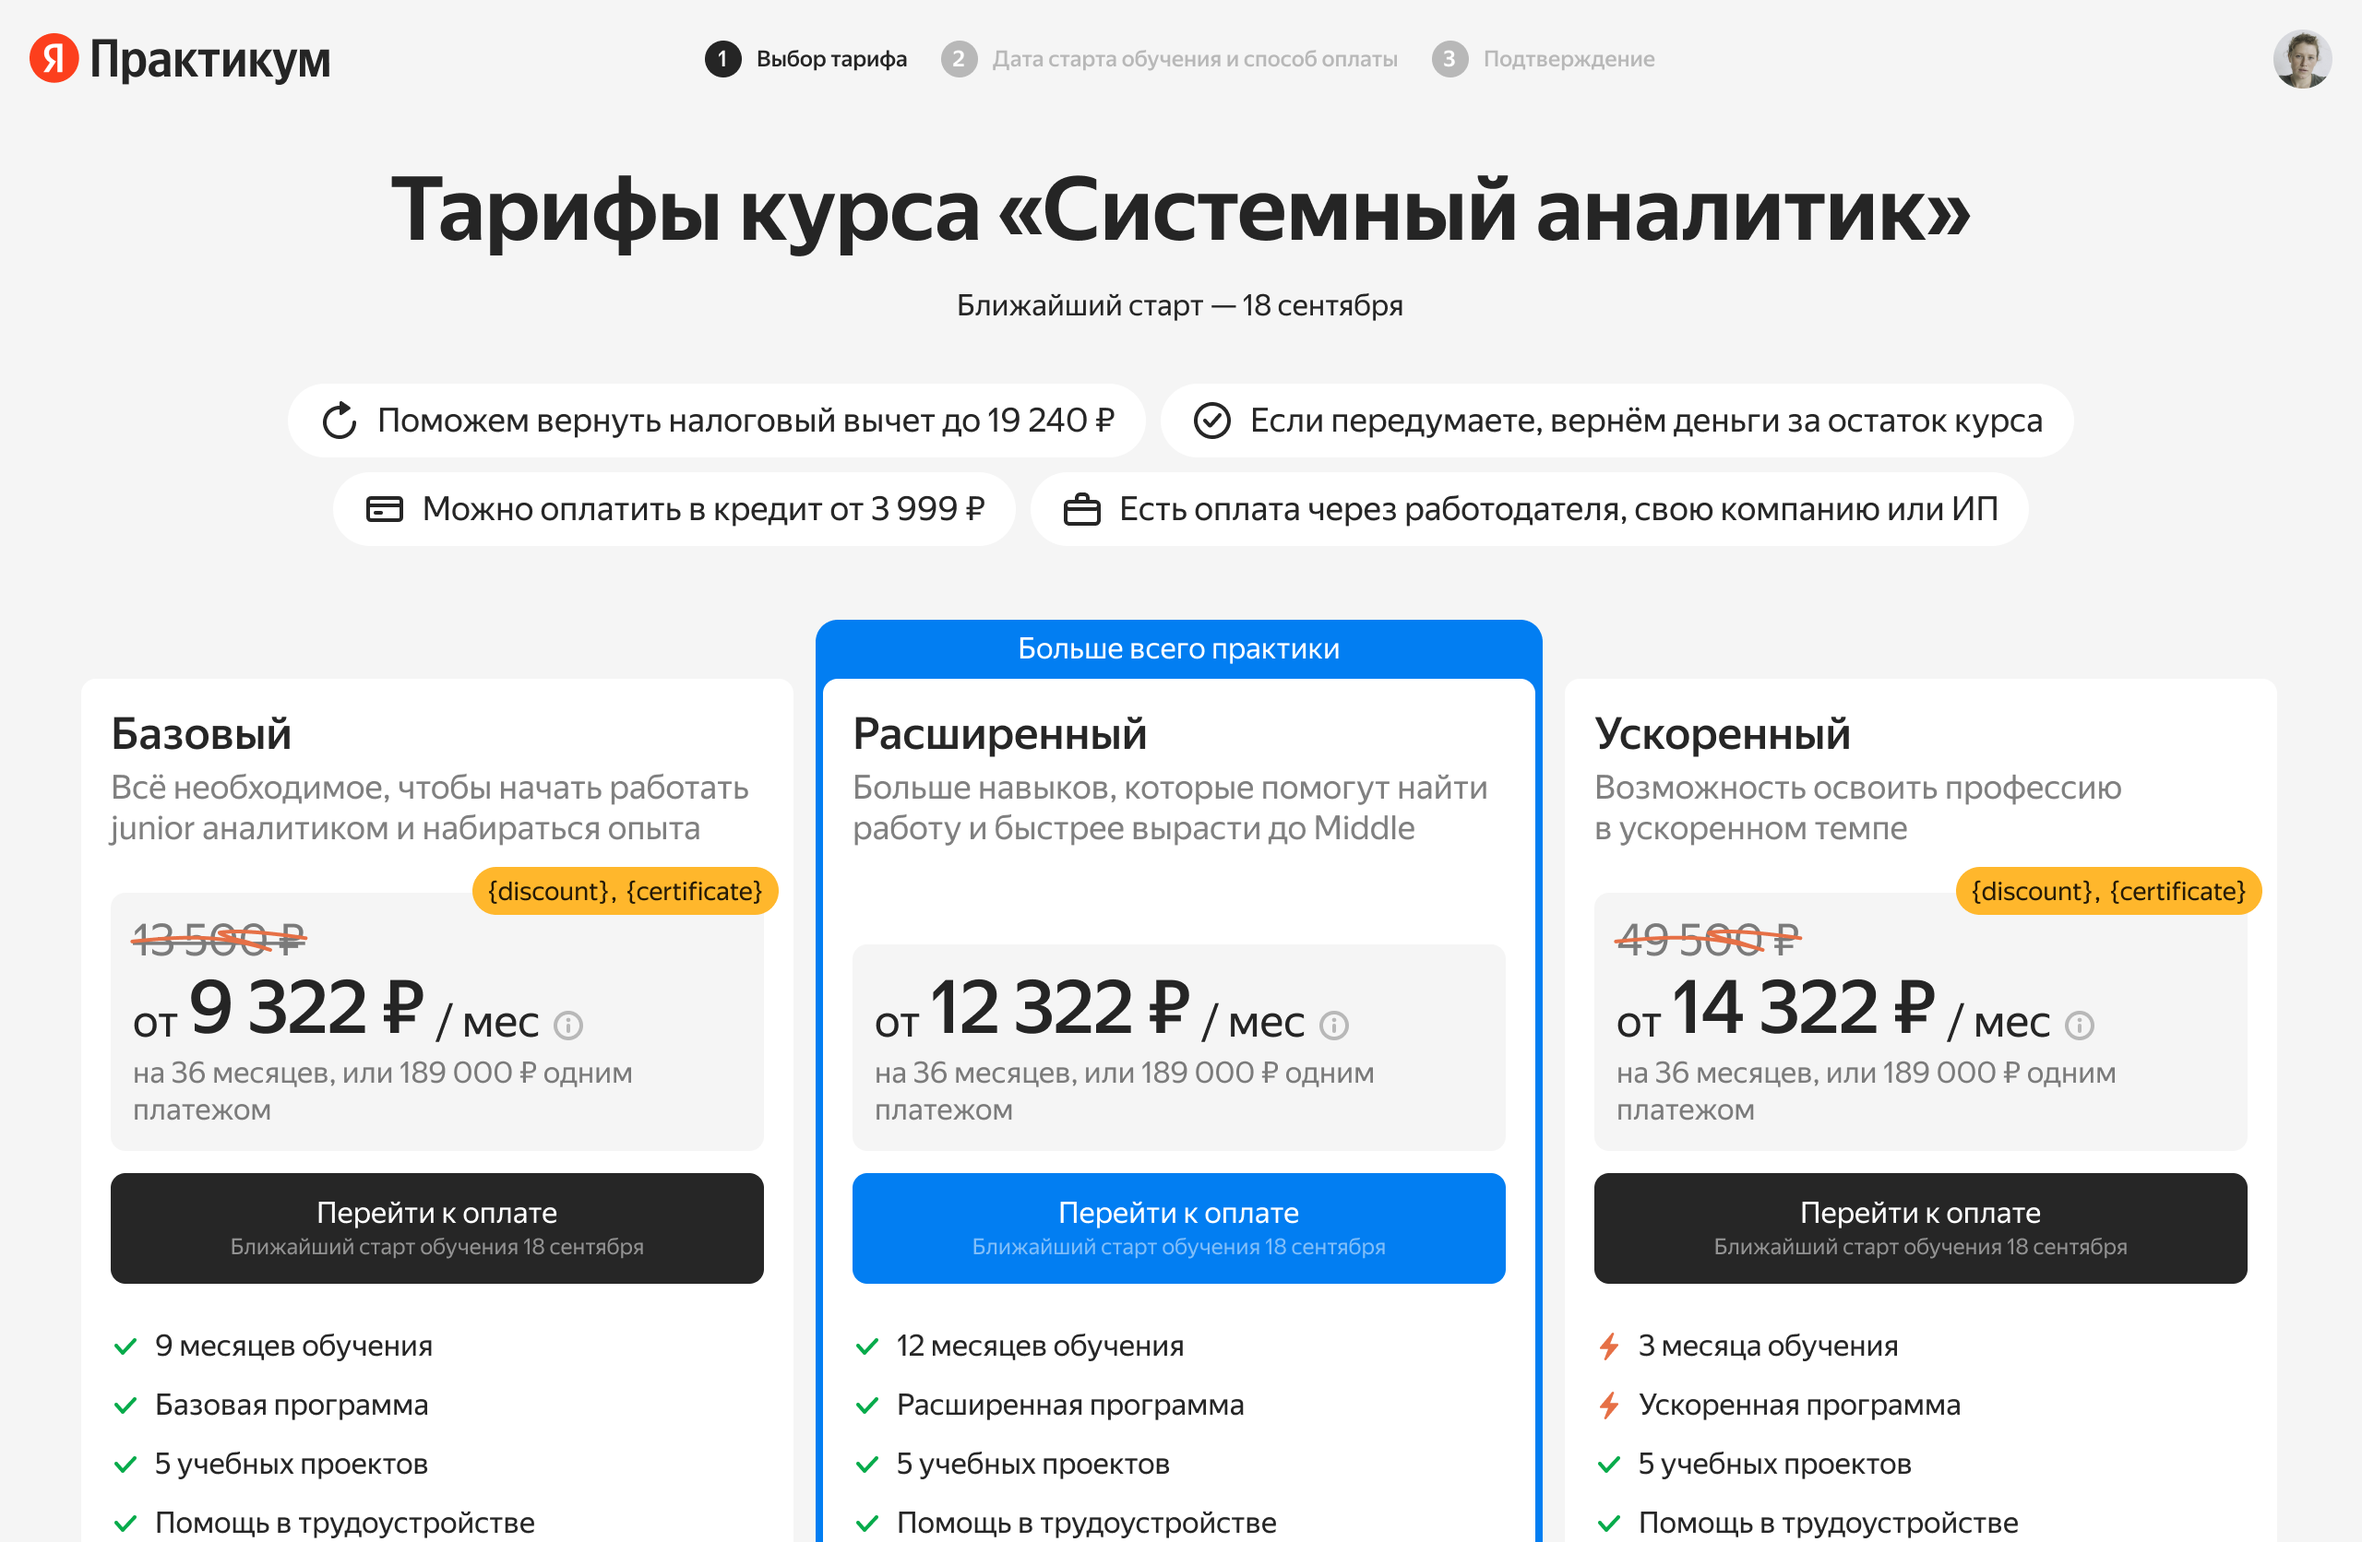
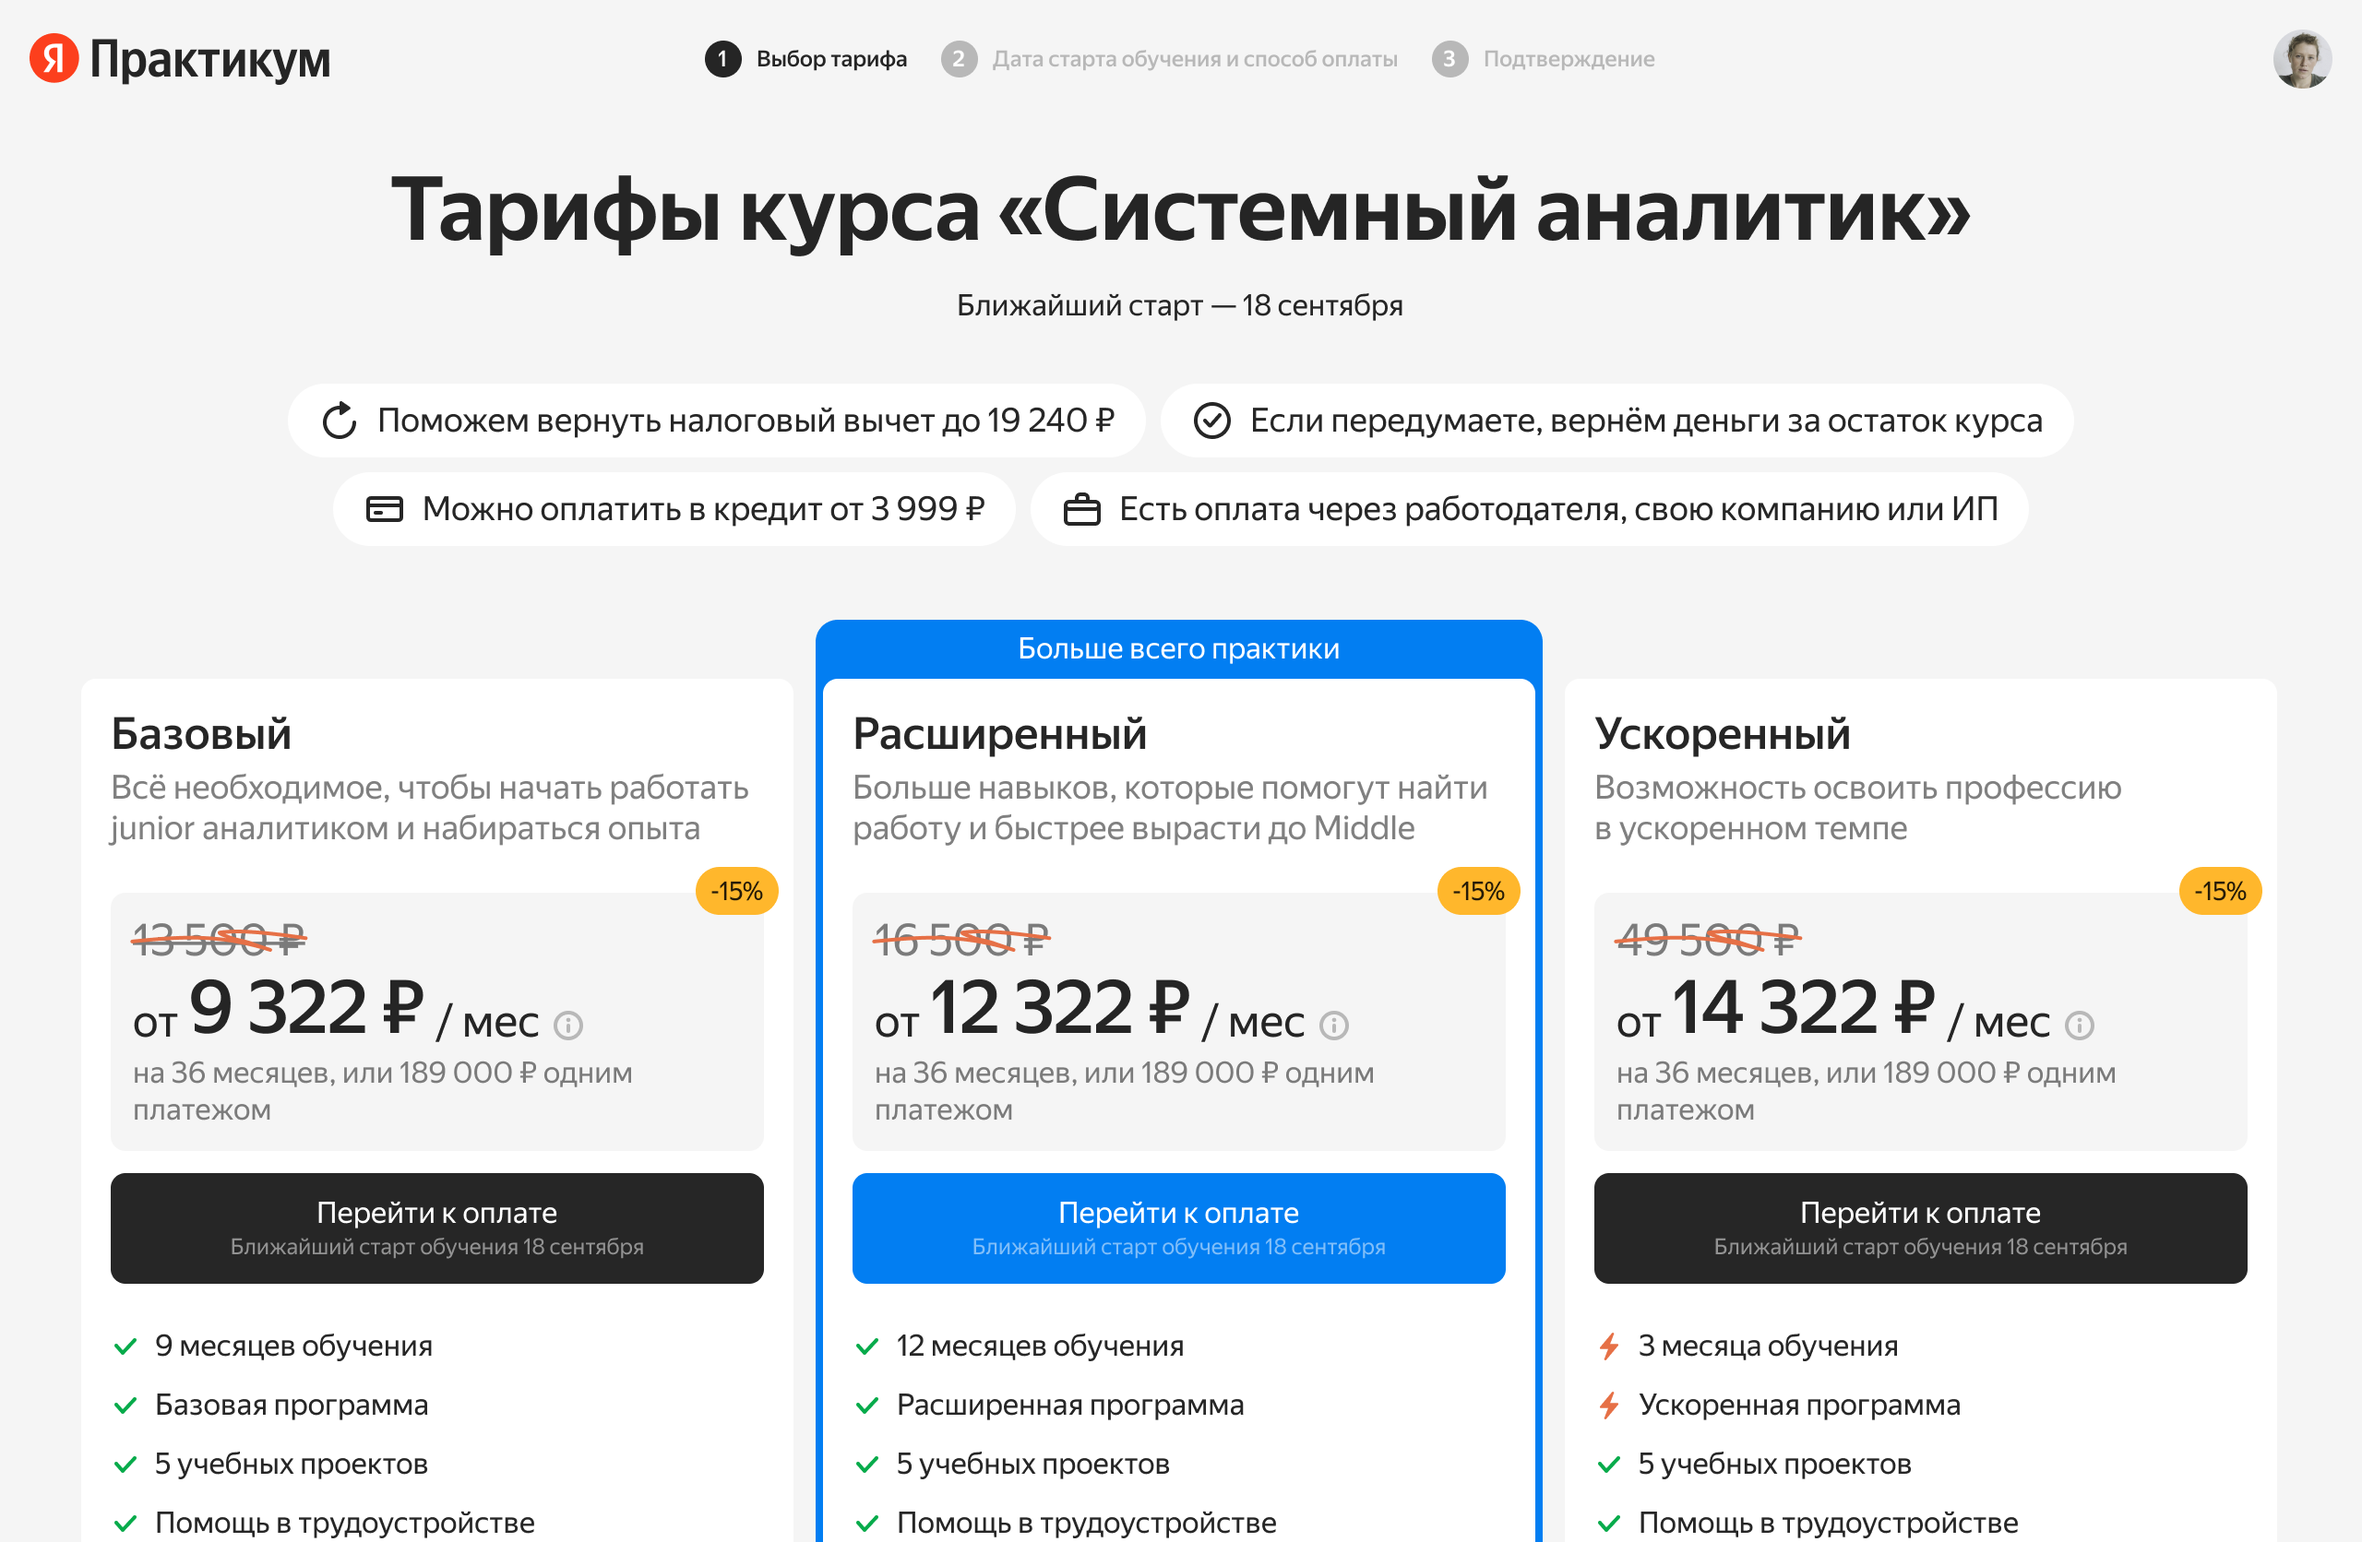
Refresh project media and remove footer email

diff --git a/src/App.tsx b/src/App.tsx
@@ -8,7 +8,7 @@ function withBase(href: string) {
   return href.startsWith("/") ? `${basePath}${href}` : href;
 }
 
-const withMediaVersion = (src: string) => `${withBase(src)}?v=20260831-5`;
+const withMediaVersion = (src: string) => `${withBase(src)}?v=20260831-6`;
 
 function withoutBase(href: string) {
   if (!basePath) return href;
@@ -298,7 +298,6 @@ function SiteFooter() {
       </p>
       <div className="case-footer-bottom">
         <nav aria-label="Social links">
-          <a href="mailto:ya.love.google@yandex.ru">Email</a>
           <a href="https://t.me/a_suhov">Telegram</a>
           <a href={withBase("/projects/Сухов Александр.pdf")} target="_blank" rel="noreferrer">CV</a>
         </nav>
